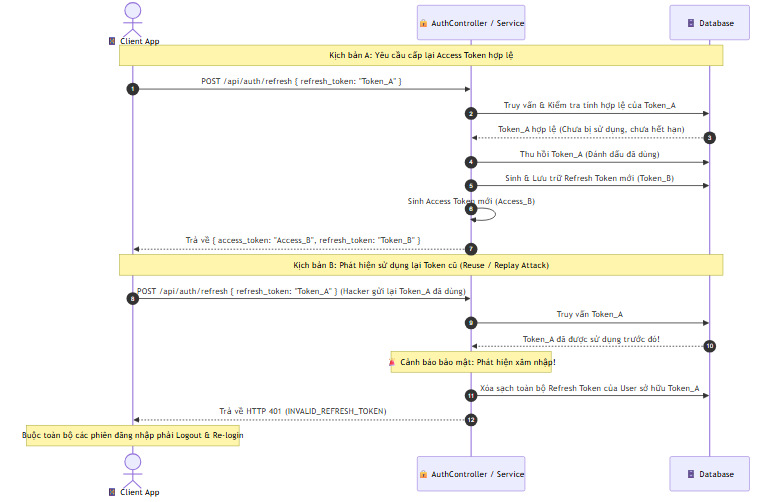
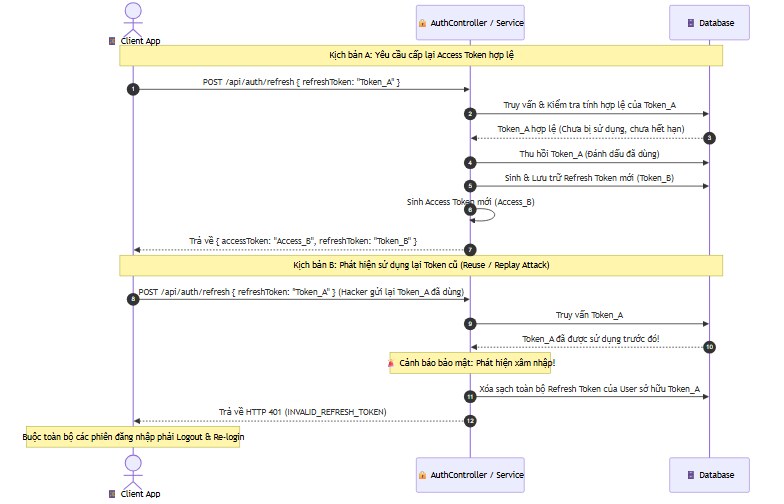
fix(docs): resolve architecture review issues - idempotency, ERD, camelCase
- docs: clarify idempotency uses Redis SET NX (atomic), not TOCTOU pattern
- feat(db): add V10 migration for friendship unique constraint at DB level
- docs(erd): add UK annotations to friendships(requester_id, addressee_id)
- docs(erd): add blocked_users entity (design intent, not yet implemented)
- docs(erd): add blocked_users relationships to users
- docs(state-machine): clarify BLOCKED is currently in friendships table
- fix(diagram): rename snake_case fields to camelCase in auth_token_rotation.mmd
  - refresh_token -> refreshToken, access_token -> accessToken
- fix(diagram): rename snake_case fields to camelCase in websocket_stomp_flow.mmd
  - ticket_id -> ticketId

diff --git a/docs/SYSTEM_ARCHITECTURE.md b/docs/SYSTEM_ARCHITECTURE.md
@@ -66,7 +66,7 @@ Dựa theo nguyên tắc của **Senior Backend Engineer**, hệ thống giải 
 
 1. **Race Conditions trong gửi tin nhắn trùng (Duplicate Send):**
    - Sự kết hợp giữa `clientMessageId` + `conversationId` + `senderId` tạo ra một khóa định danh duy nhất (Idempotency Key).
-   - Hệ thống cố gắng lấy khóa này trước khi thực hiện Transaction. Nếu khóa đã tồn tại trong DB, hệ thống từ chối ghi đè và trả lại trực tiếp bản ghi tin nhắn cũ để tránh trùng lặp tin nhắn khi Client bị lag mạng và ấn gửi nhiều lần.
+   - Hệ thống sử dụng **Redis `SET NX` (setIfAbsent)** — một thao tác **nguyên tử (atomic)** — để chiếm giữ khóa trước khi bắt đầu Transaction. Vì `SET NX` là một lệnh Redis đơn, không thể bị tách ra bởi bất kỳ luồng nào khác (không có khoảng thời gian kiểm tra rồi mới ghi như kiểu TOCTOU). Nếu 2 request đến đồng thời với cùng `clientMessageId`, chỉ đúng 1 request chiếm được khóa và tiến hành ghi DB; request còn lại nhận kết quả `false` ngay lập tức và được trả về bản ghi cũ một cách an toàn.
 
 2. **Race Conditions trong tính toán unreadCount:**
    - Trường `last_read_message_id` trong `conversation_participants` được cập nhật trực tiếp qua câu lệnh UPDATE chỉ mục để so sánh ID tin nhắn thay vì kéo dữ liệu về RAM để tăng giảm thủ công, giúp tránh hiện tượng ghi đè chéo (Lost Update) khi người dùng mở app trên nhiều thiết bị cùng lúc.
